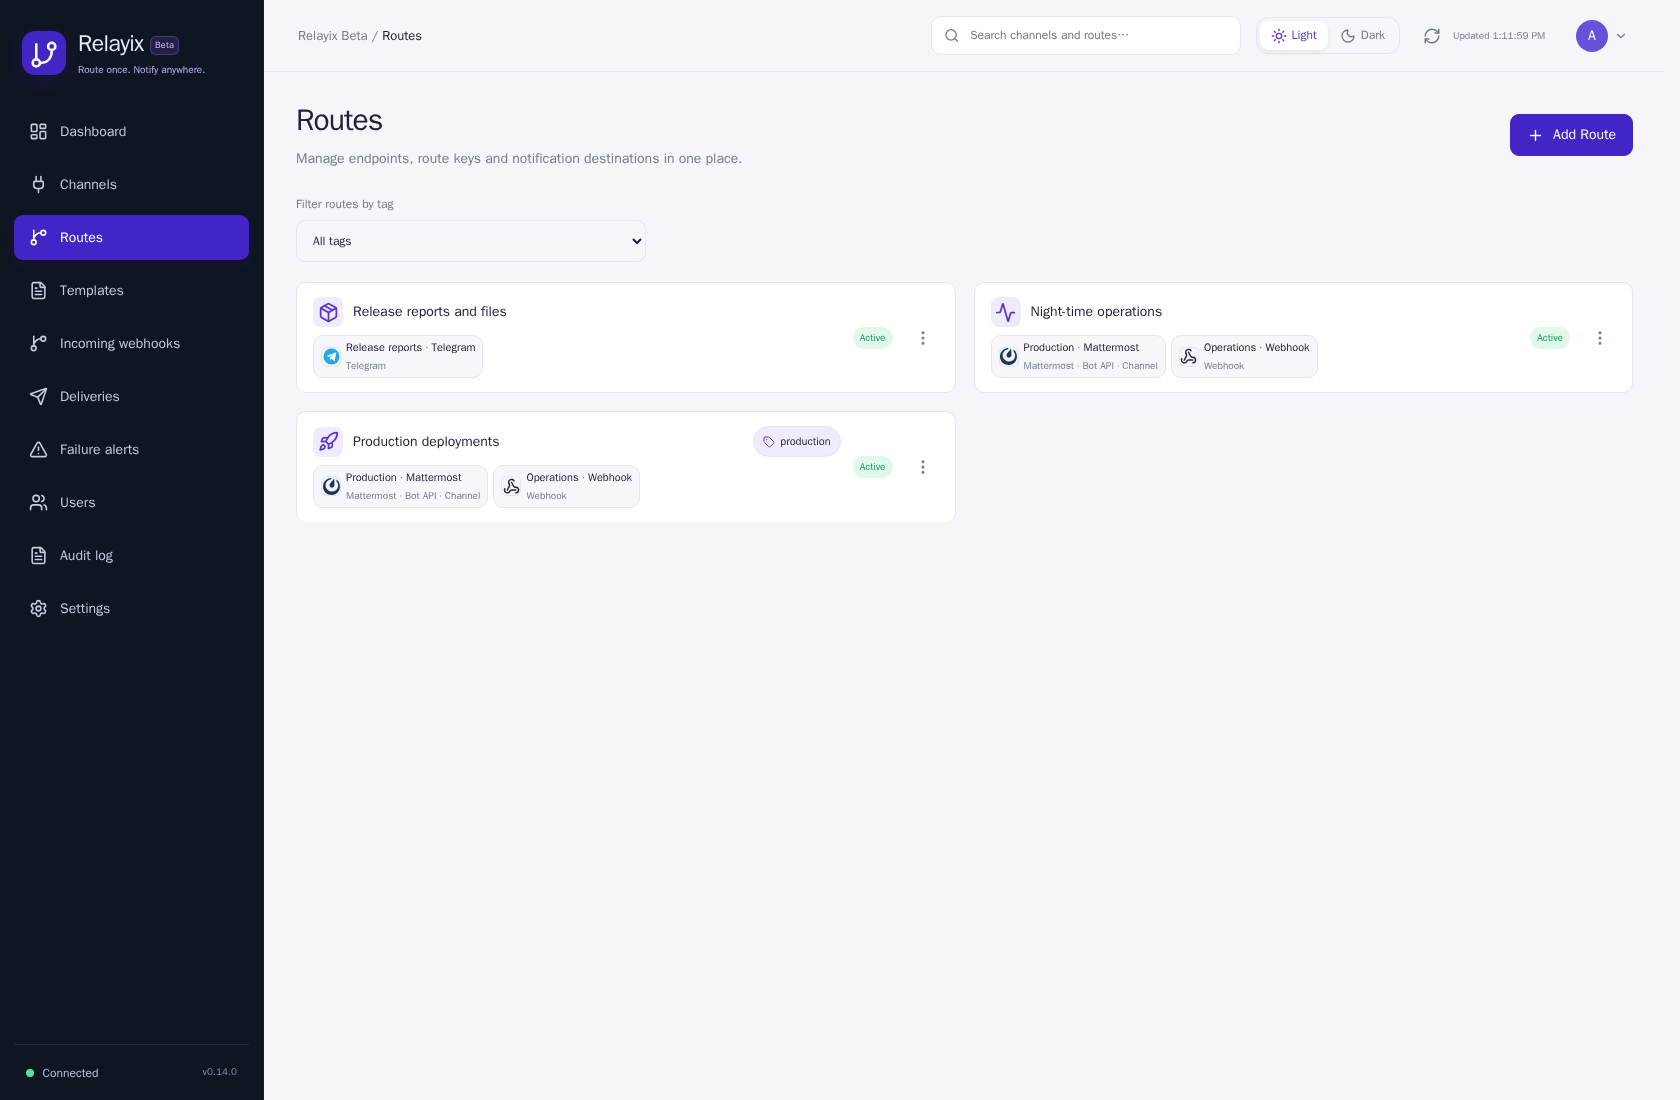
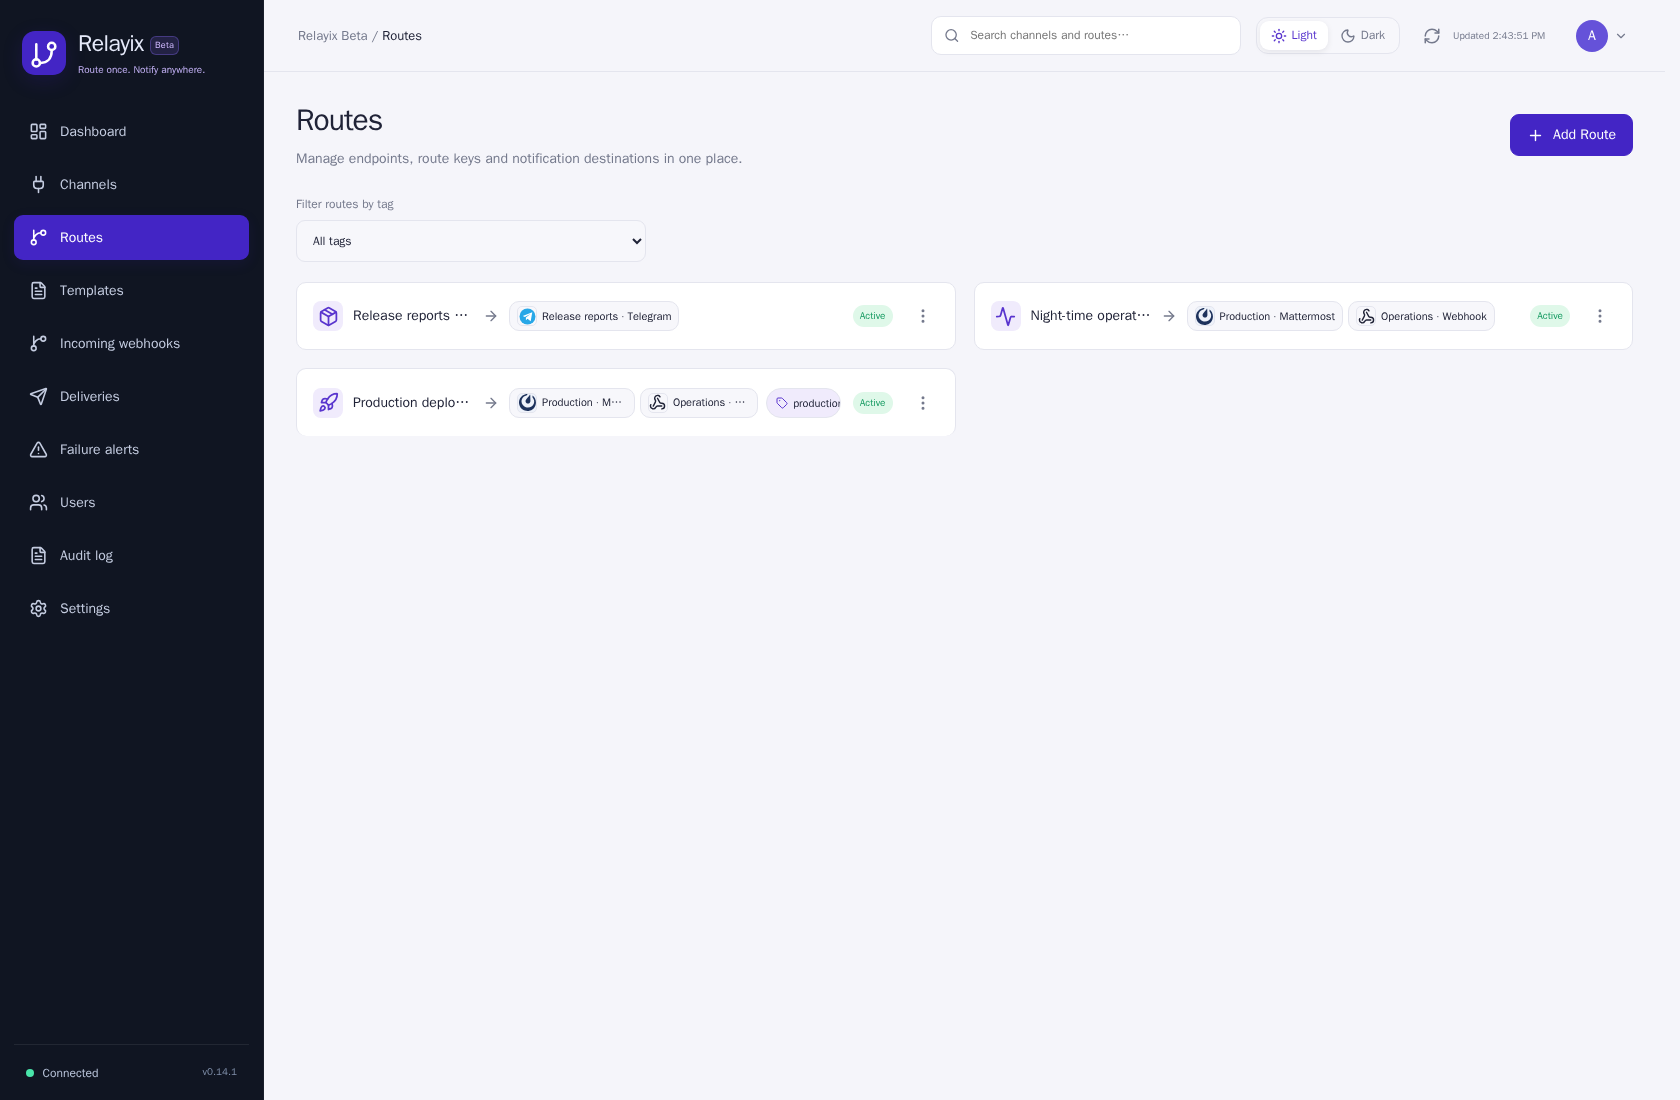
Refresh README with verified 0.14.1 interface screenshots

diff --git a/docs/screenshots/README.md b/docs/screenshots/README.md
@@ -1,6 +1,6 @@
 # Interface screenshots
 
-These eight PNGs were captured from the verified Relayix **0.14.0 Beta** candidate, commit [`563af308deb057fb6486d9439004b24c40e21491`](https://github.com/opsforge89/Relayix/commit/563af308deb057fb6486d9439004b24c40e21491), during [the complete candidate verification](https://github.com/opsforge89/Relayix/actions/runs/43196085278) on 2026-11-12.
+These eight PNGs were captured from the verified Relayix **0.14.1 Beta** candidate, commit [`f3ee705de860deb34d2e225d65150e0379ef3107`](https://github.com/opsforge89/Relayix/commit/f3ee705de860deb34d2e225d65150e0379ef3107), during [the complete candidate verification](https://github.com/opsforge89/Relayix/actions/runs/43209387966) on 2026-11-12.
 
 `tests/readme_capture.py` creates an isolated temporary deployment, seeds fictional destinations, routes, notifications and an account, then captures the actual Chromium interface. It runs only in GitHub Actions as part of the single pre-publication verification pipeline. The browser viewport is 1680 × 1100 CSS pixels; full-page screenshots can be taller. The dashboard and resource overview drawers use the dark theme; other views use the light theme.
 

diff --git a/README.md b/README.md
@@ -74,13 +74,13 @@ Keep your `.env` and database volume. Migrations run automatically. For upgrades
 
 ## Preview
 
-Current interface, captured from the verified 0.14.0 Beta runtime with fictional demonstration data.
+Current interface, captured from the verified 0.14.1 Beta runtime with fictional demonstration data.
 
 ![Relayix dashboard with compact Channels and Routes lists, delivery metrics and recent history — dark theme](docs/screenshots/relayix-dashboard-dark.png)
 
 ![Compact channel list with status indicators, action menus and available integrations — light theme](docs/screenshots/relayix-channels-light.png)
 
-![Compact routes with recipients, status indicators and action menus — light theme](docs/screenshots/relayix-routes-light.png)
+![Routes with horizontally aligned names, recipients, status and action menus — light theme](docs/screenshots/relayix-routes-light.png)
 
 <details>
 <summary>Channel and route details</summary>
